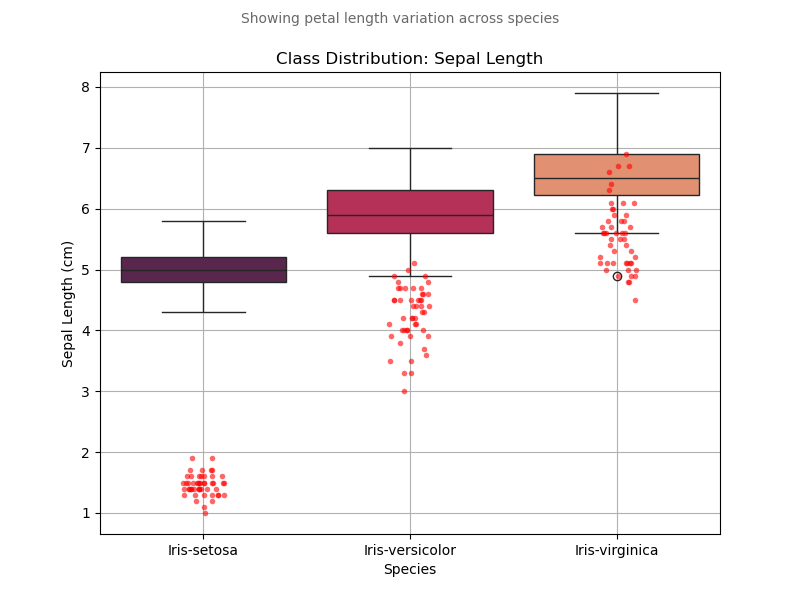
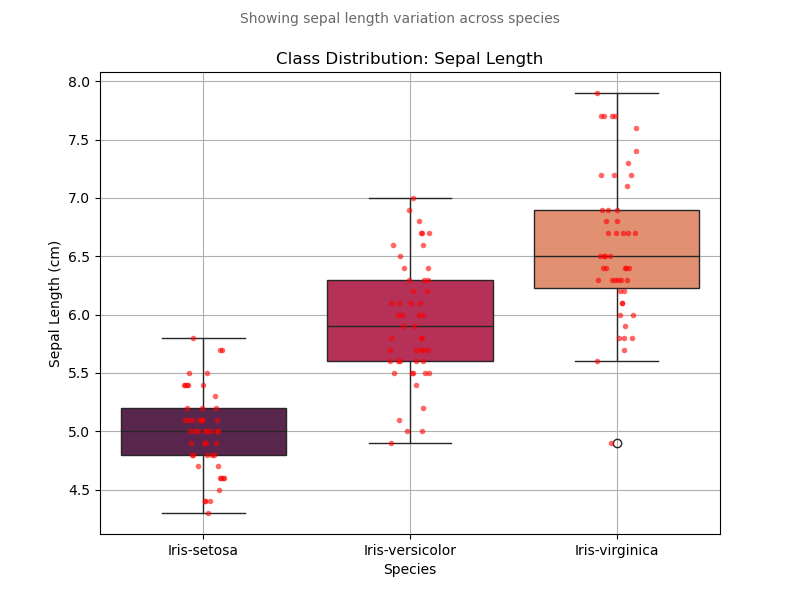
fixing typos

diff --git a/analysis.py b/analysis.py
@@ -565,12 +565,12 @@ plt.figure(figsize=(8, 6))
 
 sns.boxplot(x="species", y="sepal_length", hue="species", data=df, palette="rocket")
 
-sns.stripplot(x="species", y="petal_length", data=df, color="red", size=4, jitter=True, dodge=True, alpha=0.6)
+sns.stripplot(x="species", y="sepal_length", data=df, color="red", size=4, jitter=True, dodge=True, alpha=0.6)
 
 plt.xlabel("Species")                    
 plt.ylabel("Sepal Length (cm)")          
 plt.title("Class Distribution: Sepal Length") 
-plt.suptitle("Showing petal length variation across species", fontsize=10, color="dimgray")
+plt.suptitle("Showing sepal length variation across species", fontsize=10, color="dimgray")
 
 plt.grid(True)
 
@@ -616,7 +616,7 @@ sns.stripplot(x="species", y="petal_width", data=df, color="red", size=4, jitter
 plt.xlabel("Species")                    
 plt.ylabel("Petal Width (cm)")          
 plt.title("Class Distribution: Petal Width") 
-plt.suptitle("Showing Petal width variation across species", fontsize=10, color="dimgray")
+plt.suptitle("Showing petal width variation across species", fontsize=10, color="dimgray")
 
 plt.grid(True)
 

diff --git a/README.md b/README.md
@@ -12,9 +12,9 @@ This research titled *"The use of multiple measurements in taxonomic problems"* 
 - *Iris virginica* 
 
 Attribute information dataset is:
-- Sepal length (cm)*
-- Sepal width (cm)*
-- Petal length (cm)*
+- Sepal length (cm)
+- Sepal width (cm)
+- Petal length (cm)
 - Petal width (cm)
 - Class
 
